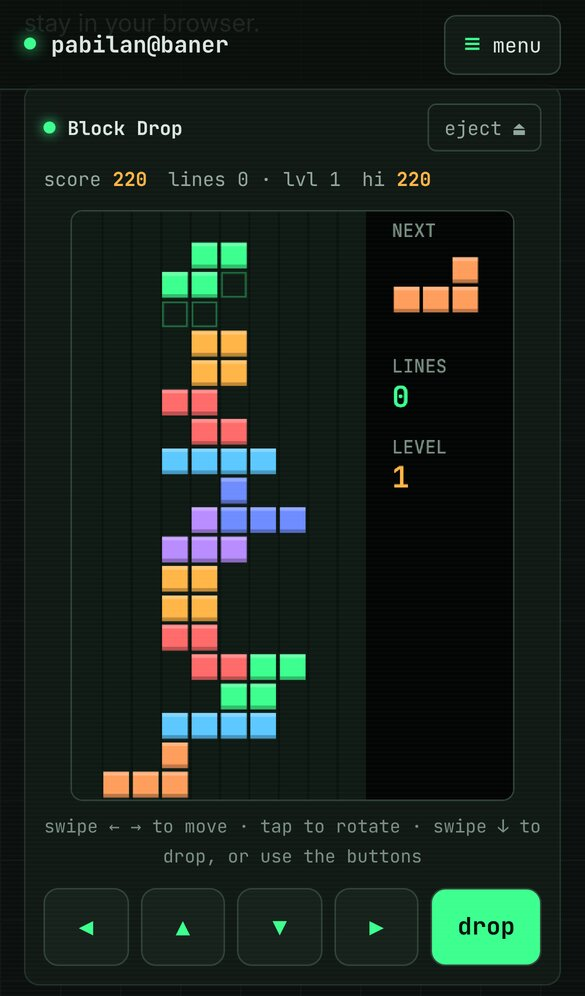
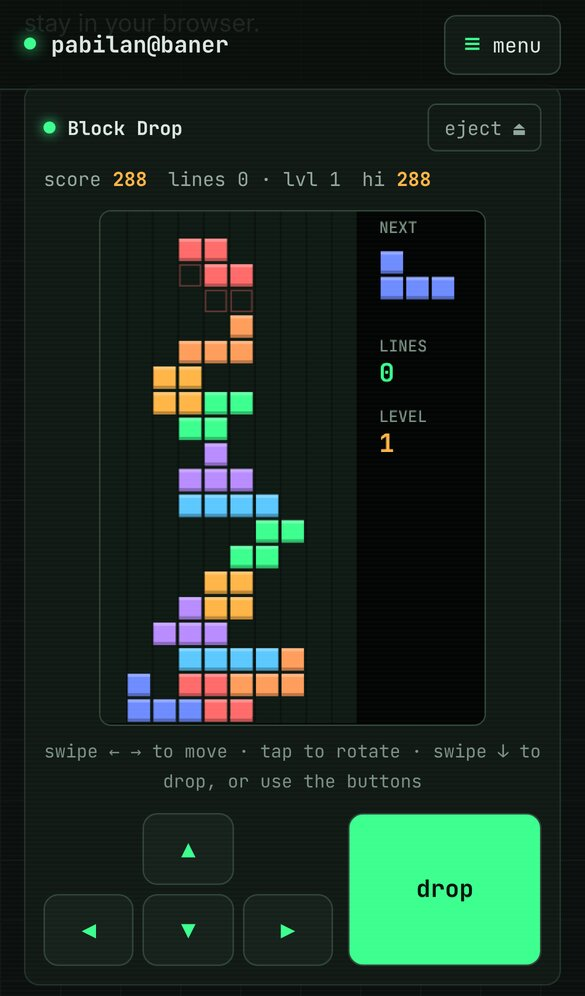
Lay out arcade touch arrows like keyboard arrow keys
Up sits above left/down/right, with the action button as a tall key
beside them. The game screen leaves more room for the taller pad, and
the phone screenshots are refreshed.

Claude-Session: https://claude.ai/code/session_01U6XWX62oTw7PTydqNeeU3M

diff --git a/src/arcade/Cabinet.tsx b/src/arcade/Cabinet.tsx
@@ -25,6 +25,14 @@ function writeBest(id: string, n: number) {
   }
 }
 
+// Pad arrows sit like a keyboard's arrow keys: ▲ on top, ◀ ▼ ▶ underneath.
+const ARROW_CELL: Partial<Record<Btn, [number, number]>> = {
+  up: [2, 1],
+  left: [1, 2],
+  down: [2, 2],
+  right: [3, 2],
+};
+
 type Hud = { score: number; lives?: number; info?: string; over: boolean; result?: string };
 const snap = (g: Game): Hud => ({ score: g.score, lives: g.lives, info: g.info, over: g.over, result: g.result });
 
@@ -196,6 +204,13 @@ export function Cabinet({ def, onEject }: { def: GameDef; onEject: () => void })
     onPointerCancel: () => (input.current.held[btn] = false),
   });
 
+  // A lone arrow (Dino Dash's duck) stays a plain button next to the others.
+  const clustered = def.pad.filter((p) => ARROW_CELL[p.btn]).length > 1;
+  const arrows = clustered ? def.pad.filter((p) => ARROW_CELL[p.btn]) : [];
+  const buttons = def.pad.filter((p) => !arrows.includes(p));
+  const wide = arrows.some((p) => p.btn === 'left' || p.btn === 'right');
+  const tall = arrows.some((p) => p.btn === 'up' || p.btn === 'down');
+
   return (
     <div className="cabinet panel">
       <div className="cabinet__bar">
@@ -250,11 +265,33 @@ export function Cabinet({ def, onEject }: { def: GameDef; onEject: () => void })
       <p className="cabinet__help">{def.controls} · p pause · r restart</p>
       {def.touch && <p className="cabinet__touch-hint">{def.touch.hint}, or use the buttons</p>}
       <div className="cabinet__pad" aria-hidden="true">
-        {def.pad.map((p) => (
-          <button key={p.btn} type="button" tabIndex={-1} className={p.btn === 'a' ? 'is-a' : undefined} {...hold(p.btn)}>
-            {p.label}
-          </button>
-        ))}
+        {arrows.length > 1 && (
+          <div className="cabinet__arrows">
+            {arrows.map((p) => {
+              const [col, row] = ARROW_CELL[p.btn]!;
+              return (
+                <button
+                  key={p.btn}
+                  type="button"
+                  tabIndex={-1}
+                  style={{ gridColumn: wide && tall ? col : wide ? (p.btn === 'left' ? 1 : 2) : 1, gridRow: tall ? row : 1 }}
+                  {...hold(p.btn)}
+                >
+                  {p.label}
+                </button>
+              );
+            })}
+          </div>
+        )}
+        {buttons.length > 0 && (
+          <div className="cabinet__buttons">
+            {buttons.map((p) => (
+              <button key={p.btn} type="button" tabIndex={-1} className={p.btn === 'a' ? 'is-a' : undefined} {...hold(p.btn)}>
+                {p.label}
+              </button>
+            ))}
+          </div>
+        )}
       </div>
     </div>
   );

diff --git a/src/styles.css b/src/styles.css
@@ -1897,15 +1897,29 @@ details[open] .pkgs__chev {
 
 .cabinet__pad {
   display: none;
-  gap: 8px;
+  gap: 10px;
   margin-top: 10px;
   user-select: none;
   -webkit-user-select: none;
 }
 
+.cabinet__arrows {
+  flex: 3 1 0;
+  display: grid;
+  grid-auto-columns: minmax(0, 1fr);
+  grid-auto-rows: 48px;
+  gap: 6px;
+}
+
+.cabinet__buttons {
+  flex: 2 1 0;
+  display: flex;
+  gap: 8px;
+}
+
 .cabinet__pad button {
   flex: 1;
-  min-height: 52px;
+  min-height: 48px;
   font: inherit;
   font-size: 1rem;
   color: var(--accent);
@@ -1934,8 +1948,8 @@ details[open] .pkgs__chev {
   }
   /* Leave room for the nav, HUD bar and pad so the whole cabinet fits on screen. */
   .cabinet__stage {
-    max-width: min(100%, calc((100vh - 270px) * var(--ratio)));
-    max-width: min(100%, calc((100dvh - 270px) * var(--ratio)));
+    max-width: min(100%, calc((100vh - 320px) * var(--ratio)));
+    max-width: min(100%, calc((100dvh - 320px) * var(--ratio)));
   }
   /* The floating terminal button would cover the pad while playing. */
   body:has(.cabinet__pad) .term-fab {
